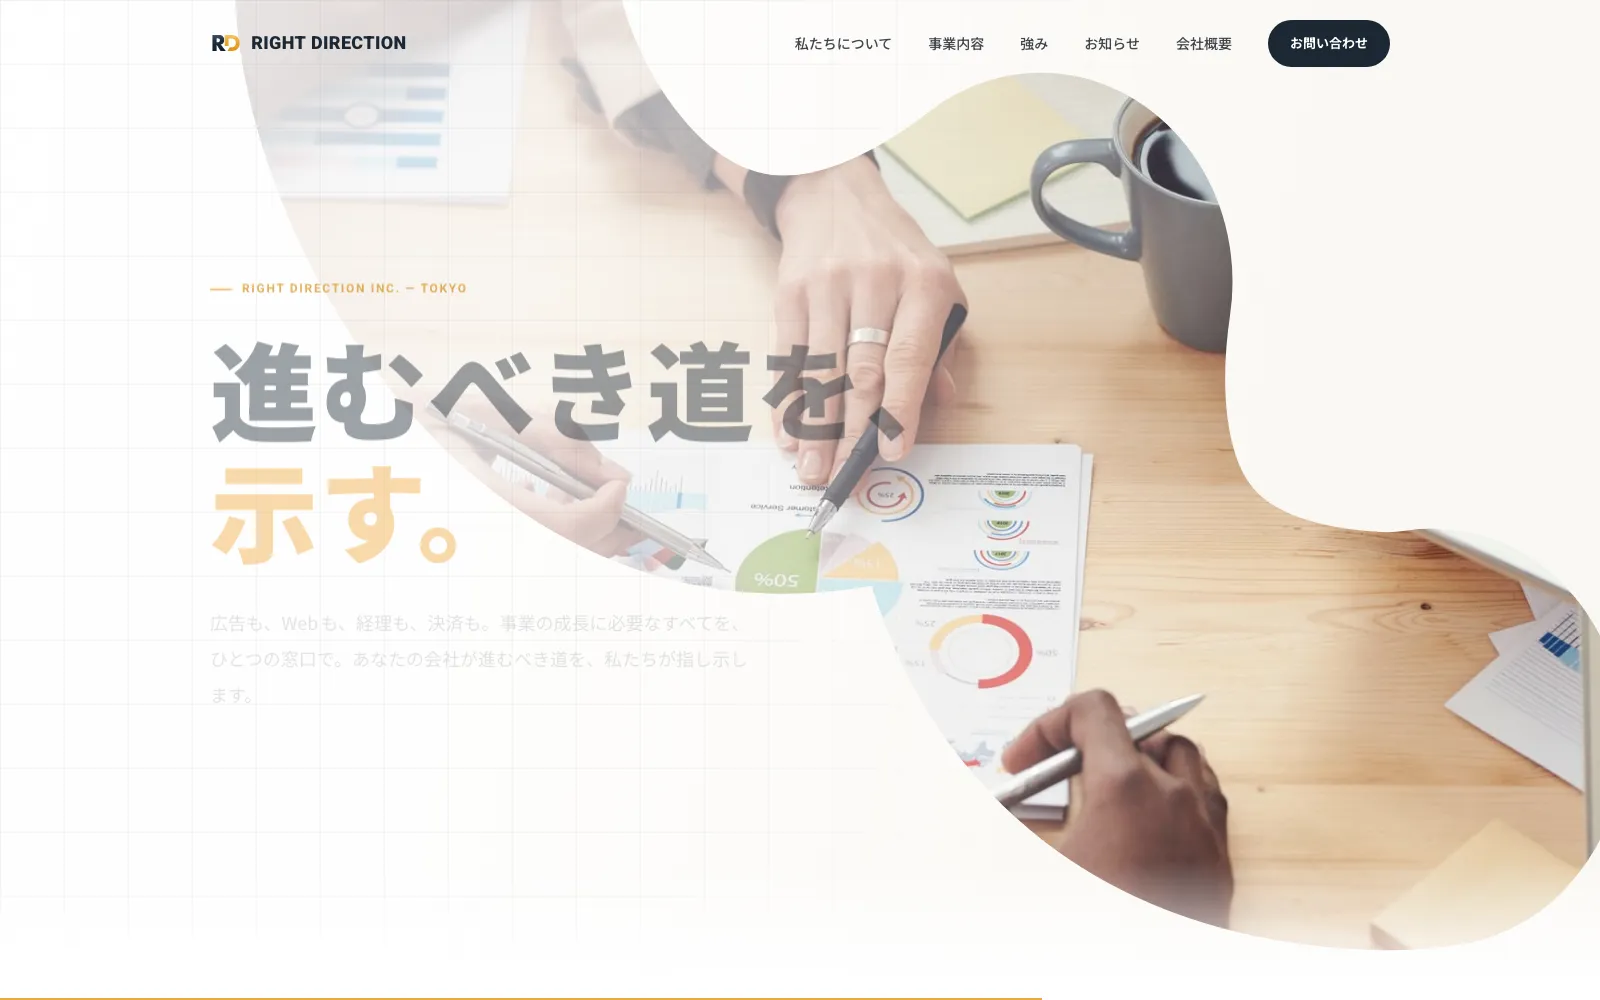
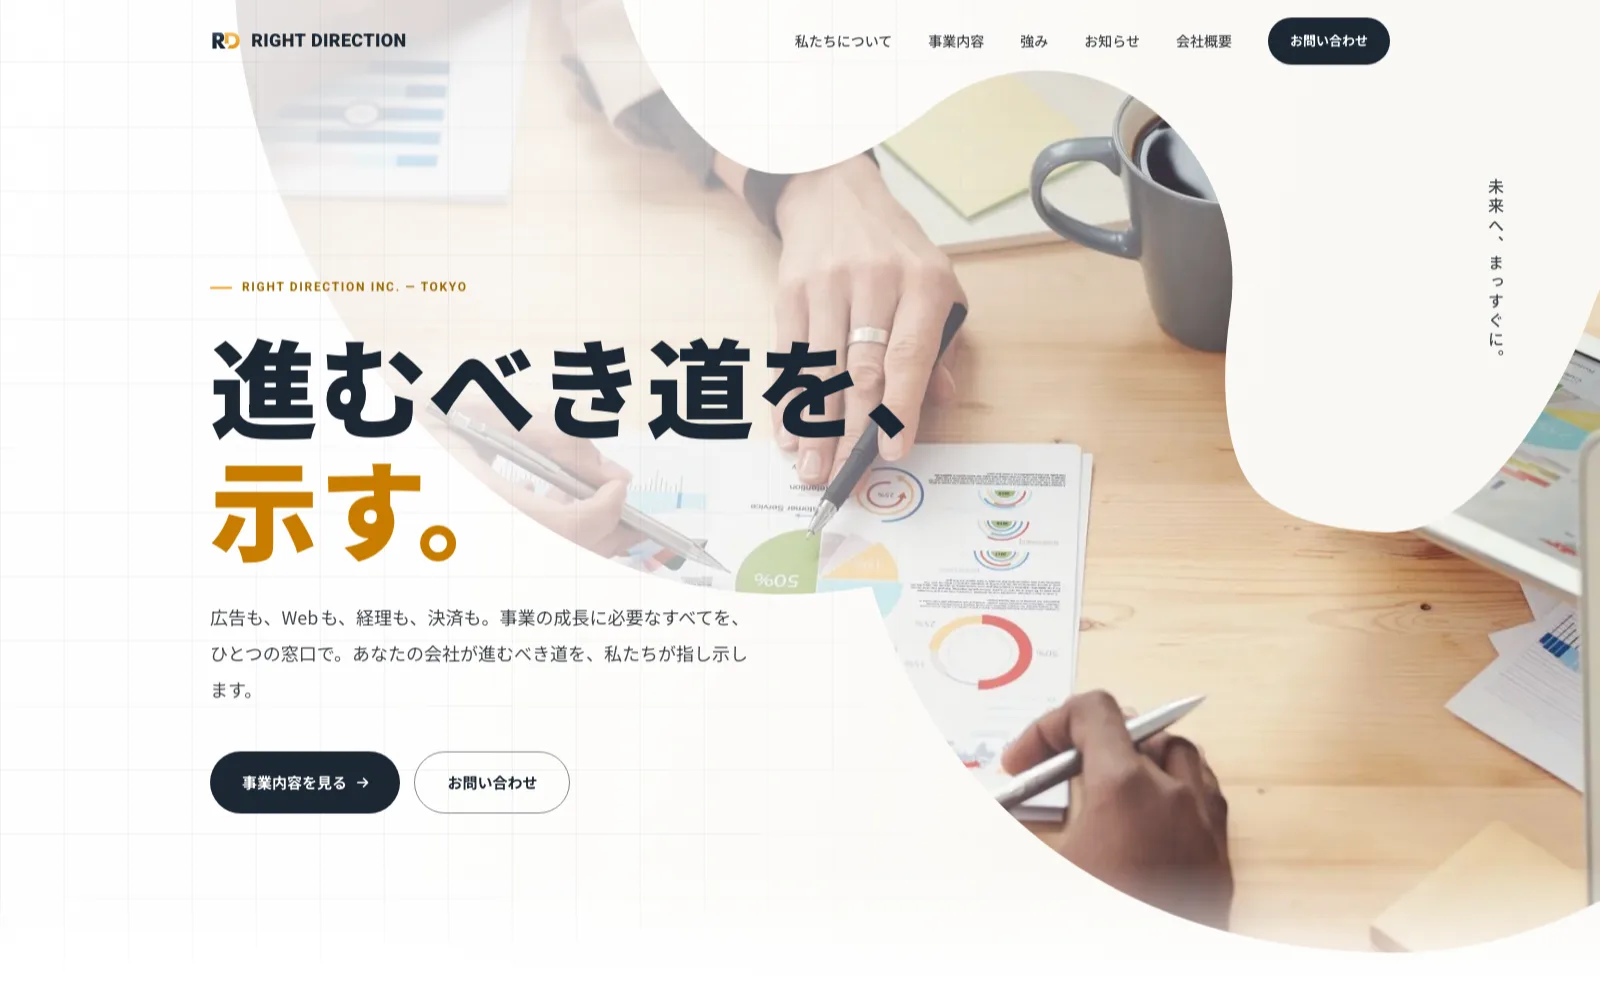
feat: 作品サムネを刷新（ほぐし実サイトFV・RDアニメ完了状態）＋カンプ集約ページをMacBookモックアップ化
- ほぐしの森: Figmaデザイン書き出し(1920x1279)から公開サイトhogushi.salonの実FV(1600x1000)へ差し替え。reCAPTCHAバッジはドメインブロックで排除
- ライトディレクション: r-d.jpの波形ドローアニメ完了後の状態で撮り直し（--force-prefers-reduced-motionで最終状態を確定撮影・進行バーはクロップ）
- coding-practice: 先頭サムネを他のサイト作品と同じ p-work__device 構造に変更
- WP: サイトURLが空でもフレームを出す kanzaki_device_frame メタを新設（coding-practice用）。アイキャッチはLocalへwp-cliで取込済み

diff --git a/works/coding-practice.html b/works/coding-practice.html
@@ -83,7 +83,10 @@
             </div>
           </div>
 
-          <img class="p-work__thumbnail" src="../images/work-onomichi.webp" alt="コーディング練習作品（ピクセルパーフェクト再現サイト）のスクリーンショット" width="1600" height="1000" loading="eager" fetchpriority="high" />
+          <div class="p-work__device">
+          <img class="p-work__thumbnail" src="../images/work-onomichi.webp" alt="コーディング練習作品（ピクセルパーフェクト再現サイト）のスクリーンショット" width="1600" height="1000" loading="eager" fetchpriority="high" decoding="async" />
+          <img class="p-work__device-frame" src="../images/device-macbook.webp" alt="" width="2020" height="1318" loading="eager" decoding="async" />
+          </div>
 
           <div class="p-work__body">
             <section class="p-work__section">

diff --git a/works/hogushi.html b/works/hogushi.html
@@ -91,7 +91,7 @@
           <div class="p-work__device">
           <picture>
             <source srcset="../images/work-hogushi-1280.webp" type="image/webp" />
-            <img class="p-work__thumbnail" src="../images/work-hogushi.jpg" alt="ほぐしの森 ランディングページのファーストビューデザイン" width="1920" height="1279" loading="eager" fetchpriority="high" decoding="async" />
+            <img class="p-work__thumbnail" src="../images/work-hogushi.jpg" alt="ほぐしの森 ランディングページのファーストビュー" width="1600" height="1000" loading="eager" fetchpriority="high" decoding="async" />
           </picture>
           <img class="p-work__device-frame" src="../images/device-macbook.webp" alt="" width="2020" height="1318" loading="eager" decoding="async" />
           </div>

diff --git a/index.html b/index.html
@@ -257,7 +257,7 @@
                     <span class="c-card__badge">実案件</span>
                     <picture>
                       <source srcset="./images/work-hogushi-640.webp" type="image/webp" />
-                      <img class="c-card__thumbnail" src="./images/work-hogushi.jpg" alt="ほぐしの森 ファーストビューデザイン" width="1920" height="1279" loading="lazy" decoding="async" />
+                      <img class="c-card__thumbnail" src="./images/work-hogushi.jpg" alt="ほぐしの森 ランディングページのファーストビュー" width="1600" height="1000" loading="lazy" decoding="async" />
                     </picture>
                   </div>
                   <div class="c-card__body">

diff --git a/wp-theme/kanzaki/inc/work-buttons.php b/wp-theme/kanzaki/inc/work-buttons.php
@@ -42,6 +42,7 @@ add_filter(
  * サイト作品（kanzaki_site_url あり）だけ実機フレームにはめ込む。
  * バナー・ロゴ等（site_url 空）はフレームを出さず、CSSの :has() が
  * 効かなくなることでサムネイルが素の表示に戻る。
+ * URLを持たんサイト作品（カンプ集約ページ等）は kanzaki_device_frame で強制ON。
  */
 add_filter(
 	'render_block_core/html',
@@ -49,8 +50,9 @@ add_filter(
 		if ( false === strpos( (string) $block_content, 'p-work__device-frame' ) ) {
 			return $block_content;
 		}
-		$url = get_post_meta( get_the_ID(), 'kanzaki_site_url', true );
-		if ( '' === trim( (string) $url ) ) {
+		$url   = get_post_meta( get_the_ID(), 'kanzaki_site_url', true );
+		$force = get_post_meta( get_the_ID(), 'kanzaki_device_frame', true );
+		if ( '' === trim( (string) $url ) && ! $force ) {
 			return '';
 		}
 		return $block_content;

diff --git a/wp-theme/kanzaki/inc/acf-works.php b/wp-theme/kanzaki/inc/acf-works.php
@@ -135,6 +135,14 @@ add_action(
 						'instructions' => 'Figmaの共有URL。空欄で「デザインデータを見る」ボタン非表示。共有設定は「リンクを知っている全員が閲覧可」にすること。',
 						'placeholder'  => 'https://www.figma.com/design/...',
 					),
+					array(
+						'key'          => 'field_kanzaki_device_frame',
+						'name'         => 'kanzaki_device_frame',
+						'type'         => 'true_false',
+						'label'        => 'MacBookフレームを強制表示',
+						'instructions' => '通常は「公開サイト/デモURL」がある作品だけフレームに嵌まる。URLが空のサイト作品（カンプ集約ページ等）でフレームを出したいときだけON。',
+						'ui'           => 1,
+					),
 
 					// ---- 共通の案内 ----
 					array(

diff --git a/wp-theme/kanzaki/inc/cpt-works.php b/wp-theme/kanzaki/inc/cpt-works.php
@@ -136,5 +136,21 @@ add_action(
 				},
 			)
 		);
+
+		register_post_meta(
+			'works',
+			'kanzaki_device_frame',
+			array(
+				'type'              => 'boolean',
+				'single'            => true,
+				'default'           => false,
+				'description'       => 'サイトURLが空の作品でもMacBookフレームに嵌める（カンプ集約ページ等）',
+				'show_in_rest'      => true,
+				'sanitize_callback' => 'rest_sanitize_boolean',
+				'auth_callback'     => function () {
+					return current_user_can( 'edit_posts' );
+				},
+			)
+		);
 	}
 );
